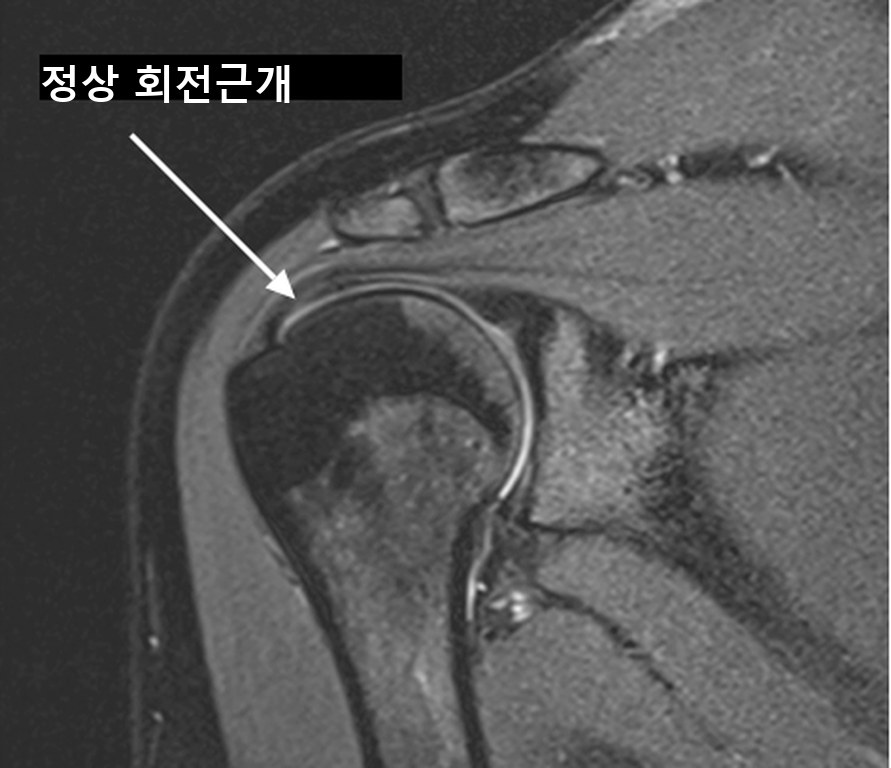
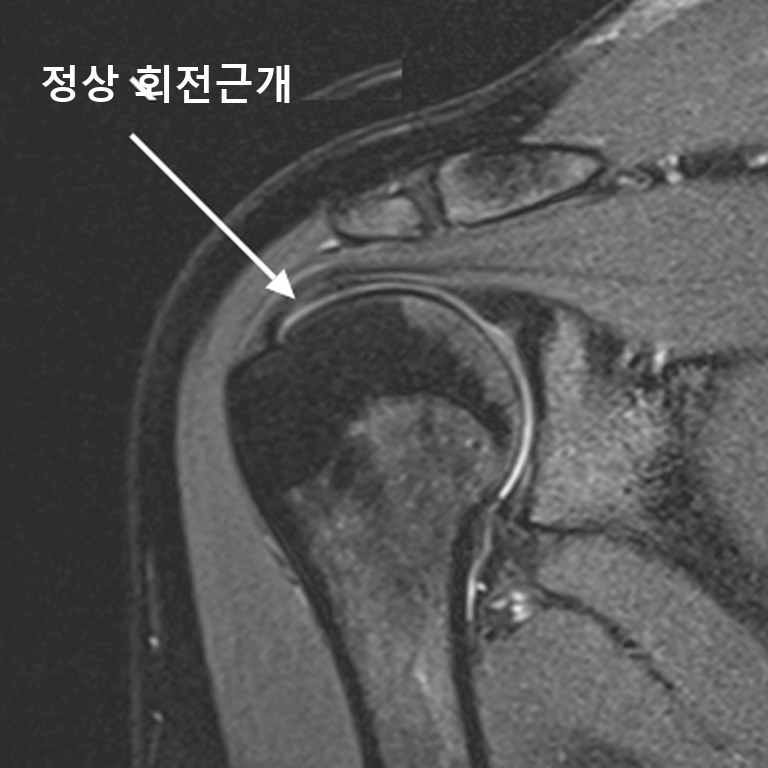
fix: 정상 MRI 라벨 자리 배경 질감 복원, 정사각 크롭으로 라벨 잘림 방지

diff --git a/index.html b/index.html
@@ -23,7 +23,7 @@ h2{font-size:28px;margin:0 0 6px;color:var(--navy)}
 h2.ct2{text-align:center;margin:0 0 34px;padding:18px 16px;border-radius:14px;background:linear-gradient(135deg,#0f3d5e 0%,#14567a 100%);color:#fff;letter-spacing:.01em;box-shadow:0 6px 18px rgba(15,61,94,.18);line-height:1.35}
 h3{font-size:21px;margin:22px 0 8px}
 .mri .row{display:flex;gap:6px;background:#000;border-radius:14px;padding:4px;overflow:hidden}
-.mri img{flex:1;min-width:0;height:auto;object-fit:cover;border-radius:10px}
+.mri img{flex:1;min-width:0;width:50%;height:auto;border-radius:10px}
 nav,table,h2,h3,.assa figcaption,.hero,.ins .fine{word-break:keep-all}
 h3.ct{text-align:center;font-size:26px;margin-top:26px}
 h3.ct .warm{color:var(--warm)}
